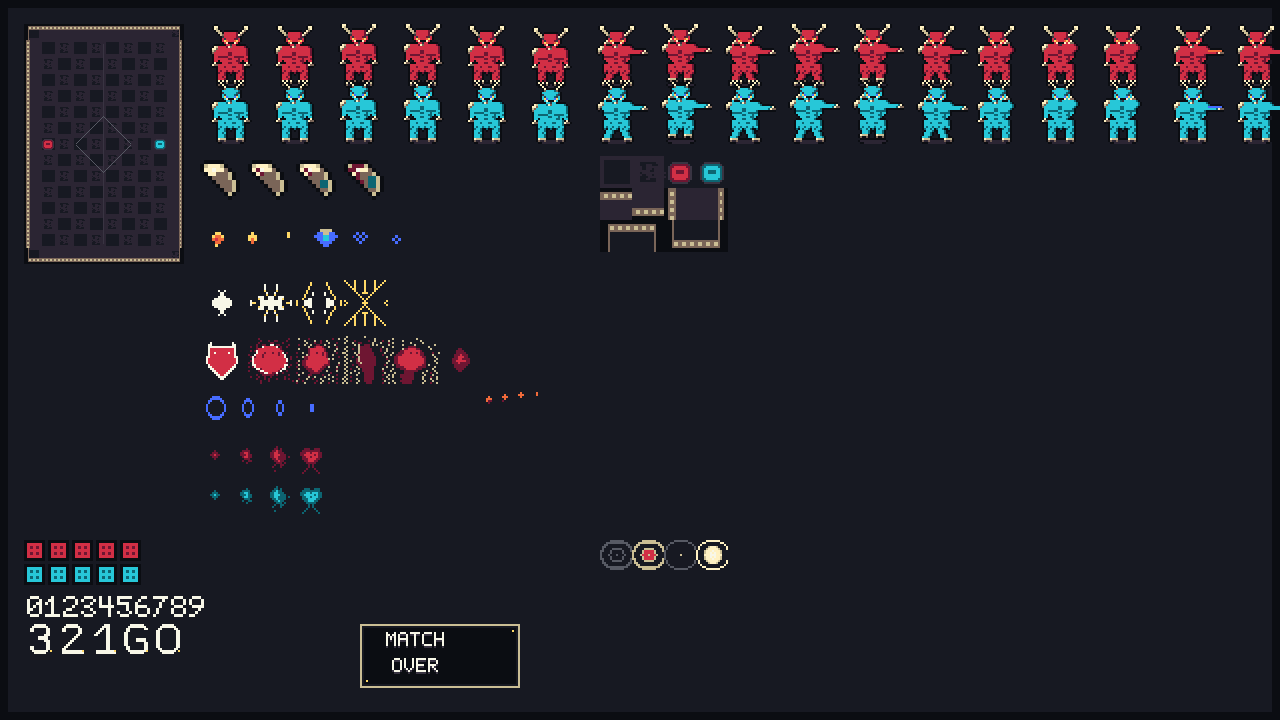
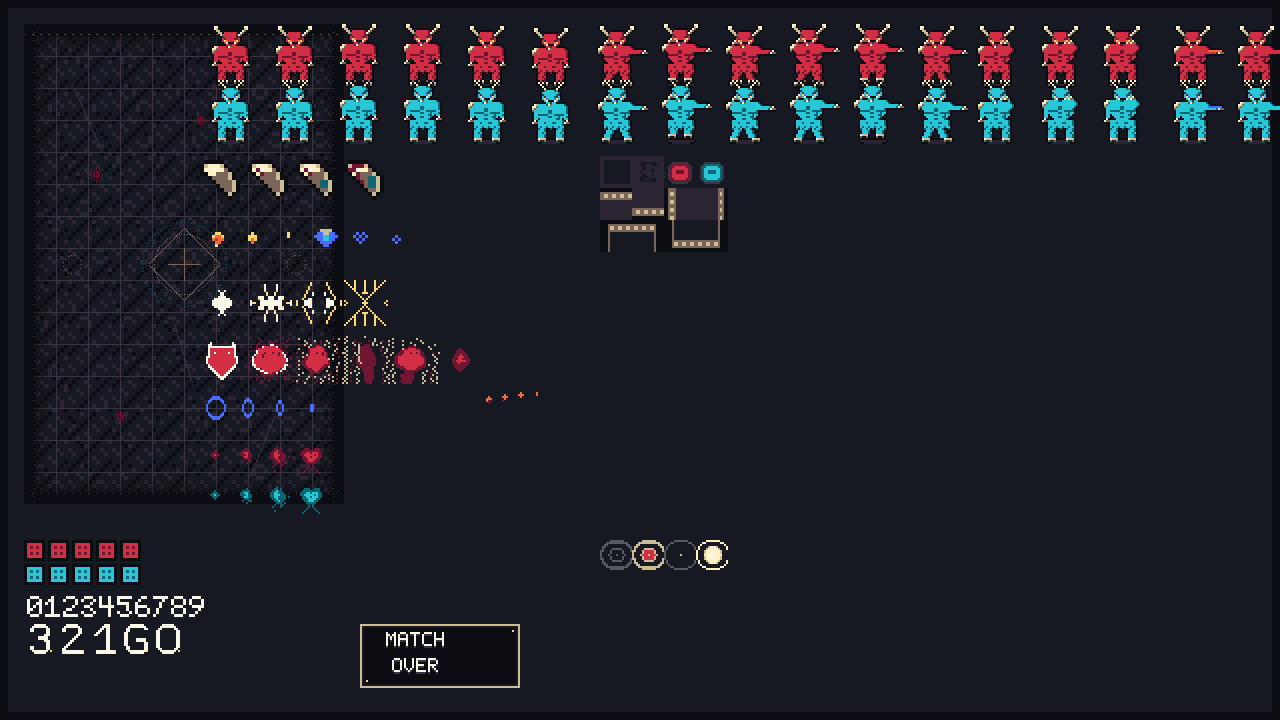
Phase A2 cycle 3: moody Bone Cathedral floor (320x480)
training_floor redrawn from a plain bright checker into the atmospheric
Anchor arena: dark mottled stone, faint tile grout, hairline cracks, old
dried-blood soaks, a subdued central occult duel-sigil, spawn sigils, a
bone-crenellated wall band, and an edge vignette toward void. Higher source
res (320x480) is free detail — world size is set by the sprite custom_size,
unchanged. Deliberately dark/low-contrast so duelists + boomerang stay the
readable foreground (verified by compositing both duelists over it). Adds
'import math' to the generator. Art-only; no code/test impact.

Changed region(s): [[0.0, 0.0306, 0.1875, 0.3972], [0.2188, 0.3361, 0.25, 0.3972], [0.0938, 0.55, 0.125, 0.5806]]

diff --git a/scripts/generate_polished_assets.py b/scripts/generate_polished_assets.py
@@ -15,6 +15,7 @@ used to write — same atlas layout, polished art.
 
 from __future__ import annotations
 
+import math
 import os
 import struct
 import zlib
@@ -1758,45 +1759,100 @@ def arena_tile_sheet() -> Canvas:
 
 
 def training_floor() -> Canvas:
-    """Composed training arena: 10 tiles wide x 15 tiles tall = 160x240 px.
+    """Moody Bone Cathedral floor — the 1000x1500 cm Anchor arena at 320x480
+    source (rendered at fixed world size, so higher res is free detail).
 
-    Arrangement: walls around the perimeter, checker floor inside, spawn
-    marks at the standard duel positions, duel-diamond geometry at center.
+    Deliberately dark and low-contrast: dark mottled stone, faint tile grout,
+    old blood, a subdued central occult duel-sigil, and a bone-crenellated
+    wall band under an edge vignette. The players + boomerang stay the
+    readable foreground; the floor only sets mood.
     """
-    cols, rows = 10, 15
-    c = Canvas(cols * 16, rows * 16)
-    # Floor checker.
-    for r in range(rows):
-        for col in range(cols):
-            primary = (col + r) % 2 == 0
-            paint(c, col * 16, r * 16,
-                  FLOOR_PRIMARY if primary else FLOOR_SECONDARY, side="p0")
-    # Walls — top + bottom rows, left + right cols. Corners take precedence.
-    for col in range(1, cols - 1):
-        paint(c, col * 16, 0, WALL_EDGE_TOP, side="p0")
-        paint(c, col * 16, (rows - 1) * 16, WALL_EDGE_BOTTOM, side="p0")
-    for r in range(1, rows - 1):
-        paint(c, 0, r * 16, WALL_EDGE_LEFT, side="p0")
-        paint(c, (cols - 1) * 16, r * 16, WALL_EDGE_RIGHT, side="p0")
-    paint(c, 0, 0, WALL_CORNER_TL, side="p0")
-    paint(c, (cols - 1) * 16, 0, WALL_CORNER_TR, side="p0")
-    paint(c, 0, (rows - 1) * 16, WALL_CORNER_BL, side="p0")
-    paint(c, (cols - 1) * 16, (rows - 1) * 16, WALL_CORNER_BR, side="p0")
-    # Spawn marks — opposite mid-arena positions.
-    paint(c, 1 * 16, 7 * 16, SPAWN_MARK_P0, side="p0")
-    paint(c, 8 * 16, 7 * 16, SPAWN_MARK_P1, side="p0")
-    # Center duel motif — a thin charcoal-line vertical, plus a diamond
-    # outlined in cold-stone for parallax.
-    cx = c.width // 2
-    cy = c.height // 2
-    for y in range(20, c.height - 20):
-        c.set(cx - 1, y, PALETTE["charcoal_line"])
-    # Diamond from cardinal points.
-    for r in range(28):
-        c.set(cx - 1 - r, cy + r - 28, PALETTE["cold_stone"])
-        c.set(cx - 1 - r, cy - r + 28, PALETTE["cold_stone"])
-        c.set(cx - 1 + r, cy + r - 28, PALETTE["cold_stone"])
-        c.set(cx - 1 + r, cy - r + 28, PALETTE["cold_stone"])
+    W, H = 320, 480
+    void = PALETTE["void"]
+    ash = PALETTE["deep_ash"]
+    bruise = PALETTE["bruise_shadow"]
+    char = PALETTE["charcoal_line"]
+    wbs = PALETTE["warm_bone_shade"]
+    bone = PALETTE["bone"]
+    teal = PALETTE["deep_teal"]
+    blood = PALETTE["blood_dark"]
+    c = Canvas(W, H, ash)
+
+    def dhash(x: int, y: int) -> int:
+        return ((x * 73856093) ^ (y * 19349663)) & 0xFF
+
+    # Dark stone mottle (deterministic — no RNG).
+    for y in range(H):
+        for x in range(W):
+            v = dhash(x // 4, y // 4)
+            if v < 36:
+                c.set(x, y, void)
+            elif v < 70:
+                c.set(x, y, bruise)
+
+    # Tile grout grid every 32px.
+    for gx in range(0, W, 32):
+        for y in range(H):
+            c.set(gx, y, char)
+    for gy in range(0, H, 32):
+        for x in range(W):
+            c.set(x, gy, char)
+
+    # Hairline cracks across the slabs.
+    for (x0, y0, x1, y1) in [(48, 60, 78, 128), (250, 392, 226, 452), (150, 300, 168, 358)]:
+        c.line(x0, y0, x1, y1, char)
+
+    # Old dried blood soaked into the stone (faint).
+    for (sx, sy, rad) in [(72, 150, 11), (250, 330, 13), (176, 96, 8), (96, 392, 9)]:
+        for a in range(0, 360, 18):
+            for rr in range(rad):
+                if (a + rr) % 3:
+                    continue
+                c.set(round(sx + rr * math.cos(math.radians(a))),
+                      round(sy + rr * 0.7 * math.sin(math.radians(a))), blood)
+
+    # Central occult duel-sigil (subdued — teal ring + warm-bone diamond).
+    cx, cy = W // 2, H // 2
+    for a in range(0, 360, 5):
+        c.set(round(cx + 42 * math.cos(math.radians(a))),
+              round(cy + 42 * math.sin(math.radians(a))), teal)
+        c.set(round(cx + 30 * math.cos(math.radians(a))),
+              round(cy + 30 * math.sin(math.radians(a))), wbs)
+    for r in range(36):
+        for (sx, sy) in [(cx - r, cy - 36 + r), (cx + r, cy - 36 + r),
+                         (cx - r, cy + 36 - r), (cx + r, cy + 36 - r)]:
+            c.set(sx, sy, wbs)
+    c.line(cx - 16, cy, cx + 16, cy, wbs)
+    c.line(cx, cy - 16, cx, cy + 16, wbs)
+
+    # Spawn sigils at the left/right mid duel positions.
+    for sx in (48, W - 48):
+        for a in range(0, 360, 24):
+            c.set(round(sx + 9 * math.cos(math.radians(a))),
+                  round(cy + 9 * math.sin(math.radians(a))), wbs)
+
+    # Bone-crenellated wall band around the perimeter.
+    band = 12
+    c.rect(0, 0, W, band, void)
+    c.rect(0, H - band, W, band, void)
+    c.rect(0, 0, band, H, void)
+    c.rect(W - band, 0, band, H, void)
+    for x in range(0, W, 8):
+        c.set(x, band - 2, wbs)
+        c.set(x + 1, band - 2, bone)
+        c.set(x, H - band + 1, wbs)
+    for y in range(0, H, 8):
+        c.set(band - 2, y, wbs)
+        c.set(W - band + 1, y, wbs)
+
+    # Edge vignette toward void.
+    for y in range(H):
+        for x in range(W):
+            edge = min(x, W - 1 - x, y, H - 1 - y)
+            if edge < 26:
+                px = c.pixels[y * W + x]
+                f = (26 - edge) / 26 * 0.7
+                c.pixels[y * W + x] = tuple(round(px[i] * (1 - f) + void[i] * f) for i in range(4))
     return c
 
 
